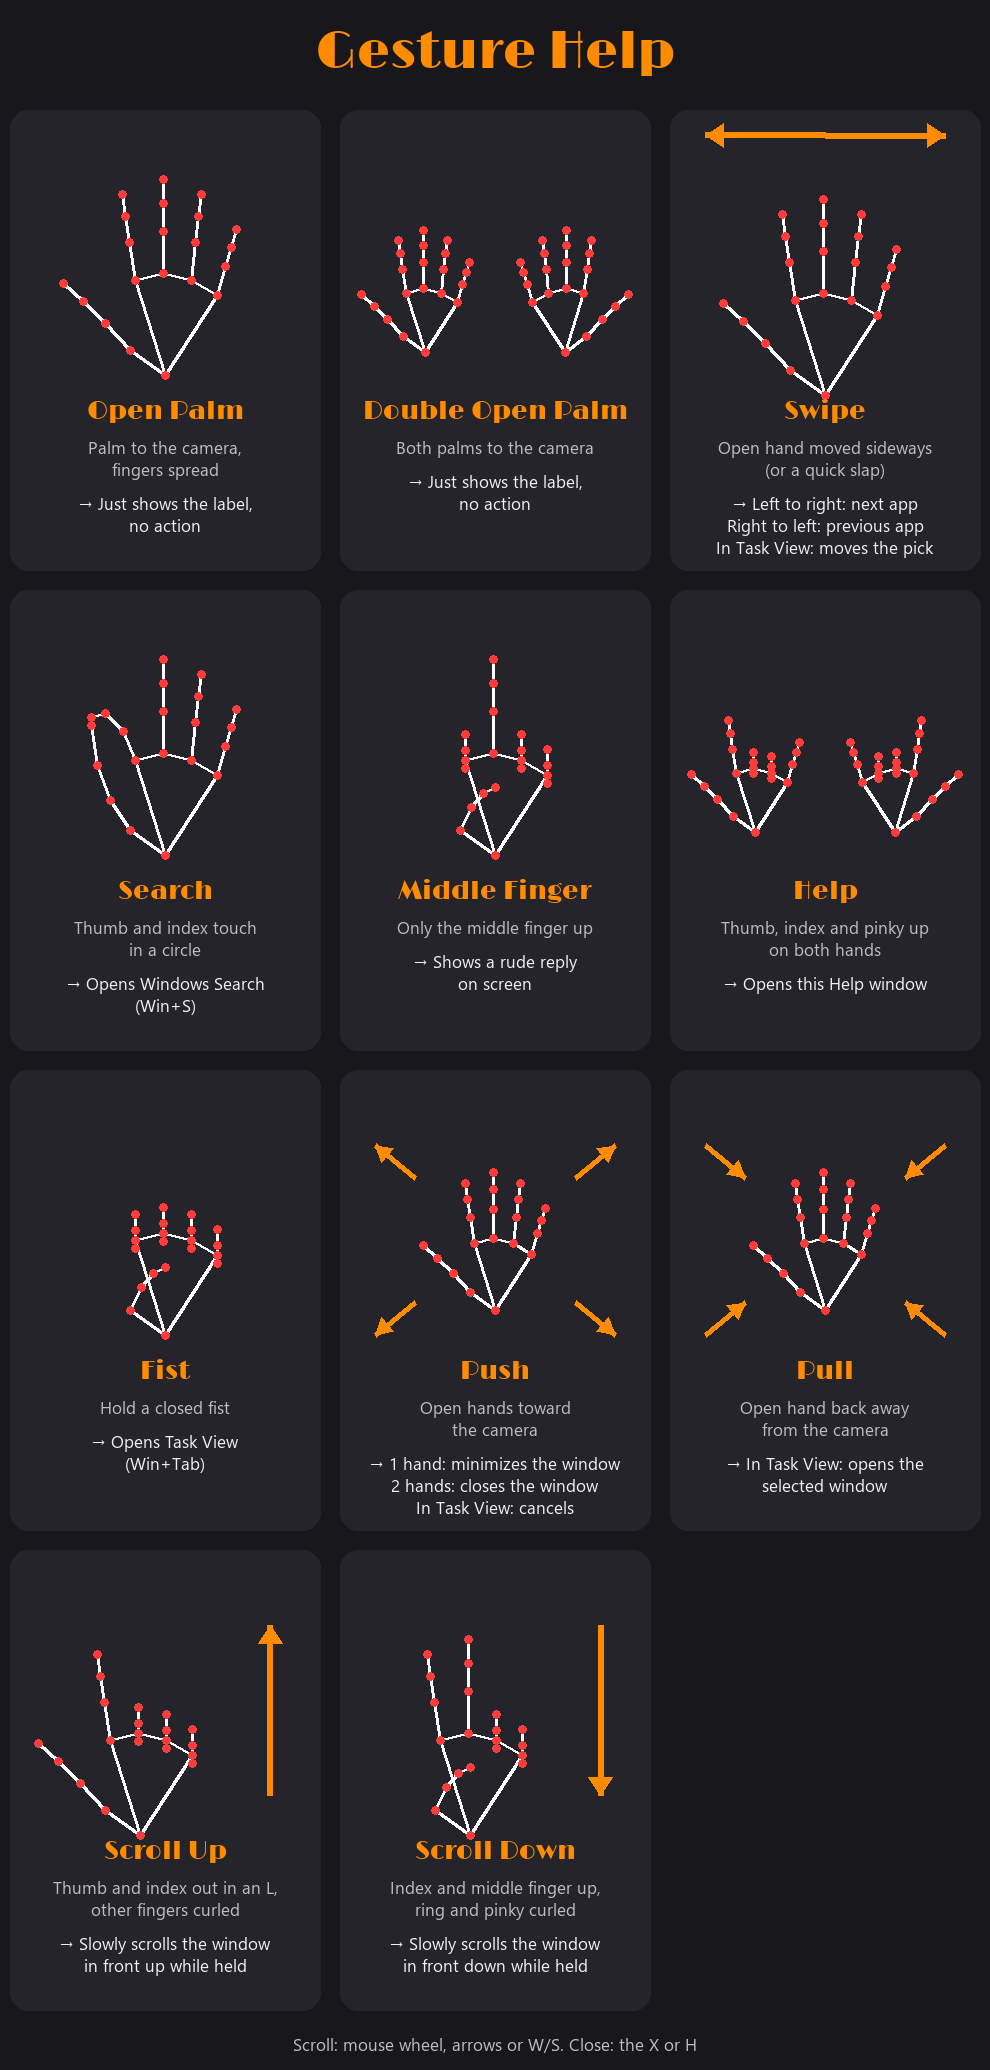
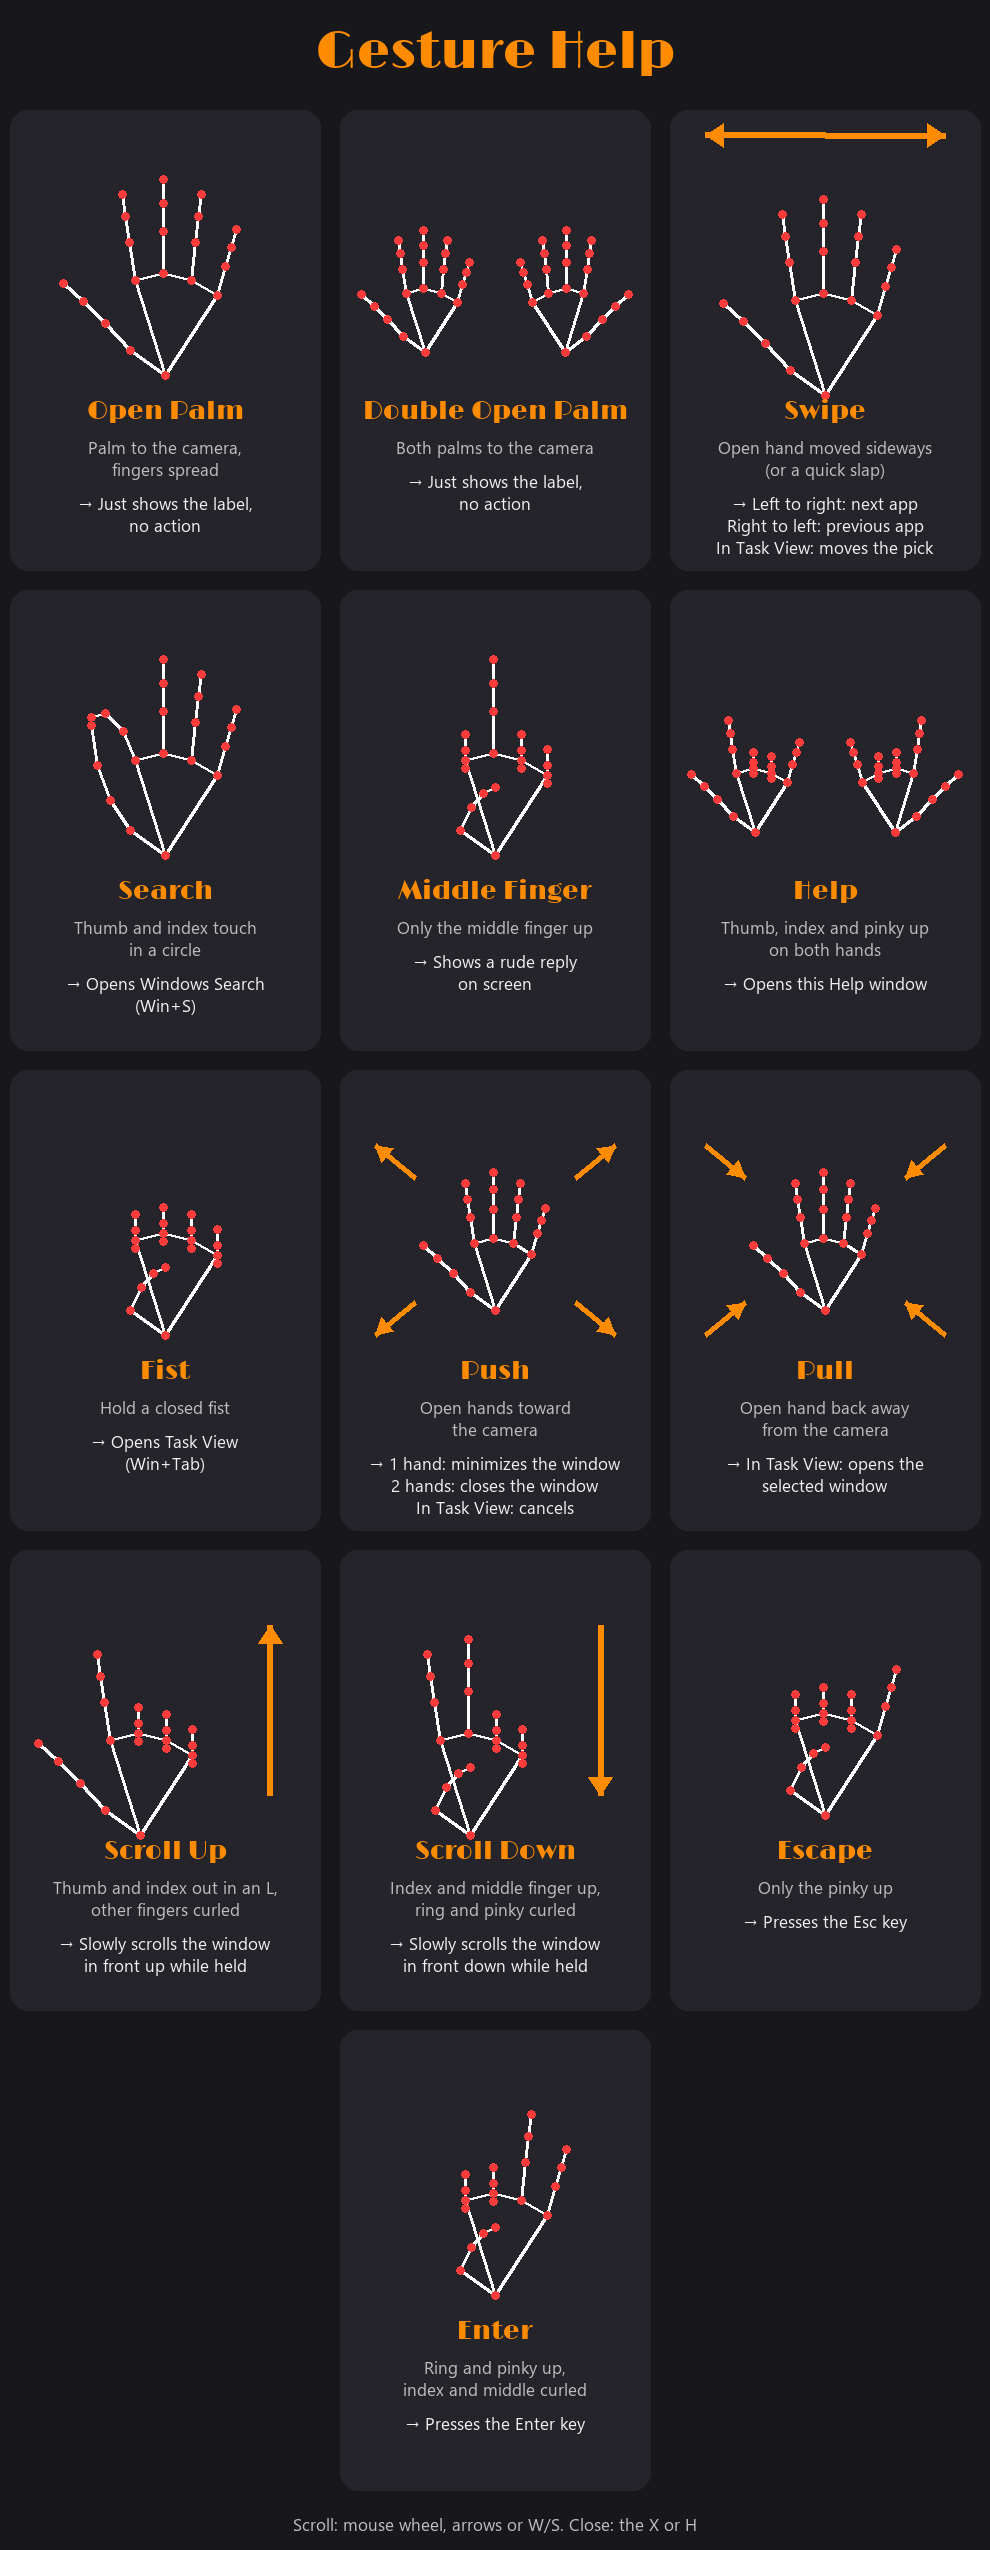
Add Escape and Enter gestures with Help and README entries

diff --git a/src/camera.py b/src/camera.py
@@ -43,6 +43,8 @@ STABLE_S = 0.3  # hands must be tracked steadily this long before swipes or push
 SCROLL_RATE = 240  # wheel units per second while a scroll sign is held (120 = one notch)
 SCROLL_HOLD_S = 0.3  # the sign must be held this long before it starts scrolling
 SCROLL_SHOW_S = 0.3
+ESCAPE_HOLD_S = 0.3  # how long the pinky sign must be held to press Esc
+ENTER_HOLD_S = 0.3  # how long the ring + pinky sign must be held to press Enter
 PUSH_SHOW_S = 1.0
 FIST_HOLD_S = 0.5  # how long the fist must be held to trigger
 SEARCH_HOLD_S = 0.3  # how long the Search sign must be held to trigger
@@ -184,6 +186,31 @@ def is_l_sign(lm):
         and dist(lm[16], lm[WRIST]) < dist(lm[13], lm[WRIST])
         and dist(lm[20], lm[WRIST]) < dist(lm[17], lm[WRIST])
     )
+
+
+def is_pinky_only(lm):
+    # Only the pinky up; index, middle and ring curled; the thumb is ignored.
+    return (
+        dist(lm[20], lm[WRIST]) > dist(lm[18], lm[WRIST])
+        and dist(lm[8], lm[WRIST]) < dist(lm[5], lm[WRIST])
+        and dist(lm[12], lm[WRIST]) < dist(lm[9], lm[WRIST])
+        and dist(lm[16], lm[WRIST]) < dist(lm[13], lm[WRIST])
+    )
+
+
+def is_ring_pinky(lm):
+    # Ring and pinky up; index and middle curled; the thumb is ignored.
+    return (
+        dist(lm[16], lm[WRIST]) > dist(lm[14], lm[WRIST])
+        and dist(lm[20], lm[WRIST]) > dist(lm[18], lm[WRIST])
+        and dist(lm[8], lm[WRIST]) < dist(lm[5], lm[WRIST])
+        and dist(lm[12], lm[WRIST]) < dist(lm[9], lm[WRIST])
+    )
+
+
+def camera_window_in_front():
+    hwnd = ctypes.windll.user32.FindWindowW(None, "Camera")
+    return bool(hwnd) and hwnd == ctypes.windll.user32.GetForegroundWindow()
 
 
 def is_fist(lm):
@@ -384,6 +411,12 @@ def main():
     swipe_until = 0.0
     push_history = deque()
     prev_n_hands = 0
+    escape_armed = True
+    escape_since = None
+    escape_until = 0.0
+    enter_armed = True
+    enter_since = None
+    enter_until = 0.0
     scroll_active = None
     scroll_since = 0.0
     last_scroll_t = 0.0
@@ -469,6 +502,31 @@ def main():
         else:
             scroll_active = None
             scroll_accum = 0.0
+
+        # Only the pinky up (held briefly) presses Esc, once per sign. It is skipped
+        # while the Camera window is in front, because Esc would quit this app.
+        if n_hands == 1 and stable and is_pinky_only(result.hand_landmarks[0]):
+            escape_since = escape_since or now
+            if escape_armed and now - escape_since >= ESCAPE_HOLD_S:
+                if not camera_window_in_front():
+                    press_key(0x1B)  # VK_ESCAPE
+                escape_armed = False
+                escape_until = now + PUSH_SHOW_S
+        else:
+            escape_since = None
+            escape_armed = True
+
+        # Ring and pinky up (held briefly) presses Enter, once per sign.
+        if n_hands == 1 and stable and is_ring_pinky(result.hand_landmarks[0]):
+            enter_since = enter_since or now
+            if enter_armed and now - enter_since >= ENTER_HOLD_S:
+                press_key(0x0D)  # VK_RETURN
+                enter_armed = False
+                enter_until = now + PUSH_SHOW_S
+        else:
+            enter_since = None
+            enter_armed = True
+
         # Swipes use a single, steadily tracked hand.
         if n_hands == 1 and stable and scroll_dir is None:
             lm = result.hand_landmarks[0]
@@ -552,6 +610,10 @@ def main():
         gesture = ""
         if middle_finger:
             gesture = "Fuck you too"
+        elif now < enter_until:
+            gesture = "Enter"
+        elif now < escape_until:
+            gesture = "Escape"
         elif now < scroll_until:
             gesture = scroll_text
         elif now < fist_until:

diff --git a/src/help_screen.py b/src/help_screen.py
@@ -74,6 +74,8 @@ HELP_HAND = hand("out", "up", "curl", "curl", "up")
 FIST_HAND = hand("in", "curl", "curl", "curl", "curl")
 TWO_FINGER_HAND = hand("in", "up", "up", "curl", "curl")
 L_HAND = hand("out", "up", "curl", "curl", "curl")
+PINKY_HAND = hand("in", "curl", "curl", "curl", "up")
+RING_HAND = hand("in", "curl", "curl", "up", "up")
 
 
 def draw_skeleton(draw, pts, cx, cy, scale=1.0, mirror=False):
@@ -146,7 +148,7 @@ def tile(draw, col, row, title, how, does, art, fonts):
 def build_help_image():
     fonts = {"title": load(TITLE_FONT, 52), "name": load(TITLE_FONT, 26),
              "sub": load(TEXT_FONT, 17)}
-    rows = 4
+    rows = 5
     img = Image.new("RGB", (TILE_W * COLS, TITLE_H + TILE_H * rows + FOOTER_H), BG)
     draw = ImageDraw.Draw(img)
     centered(draw, "Gesture Help", fonts["title"], img.width / 2, 20, ORANGE)
@@ -204,6 +206,12 @@ def build_help_image():
          "Slowly scrolls the window\nin front up while held", scroll(L_HAND, True), fonts)
     tile(draw, 1, 3, "Scroll Down", "Index and middle finger up,\nring and pinky curled",
          "Slowly scrolls the window\nin front down while held", scroll(TWO_FINGER_HAND, False), fonts)
+
+    tile(draw, 2, 3, "Escape", "Only the pinky up",
+         "Presses the Esc key", single(PINKY_HAND), fonts)
+
+    tile(draw, 1, 4, "Enter", "Ring and pinky up,\nindex and middle curled",
+         "Presses the Enter key", single(RING_HAND), fonts)
 
     centered(draw, "Scroll: mouse wheel, arrows or W/S. Close: the X or H",
              fonts["sub"], img.width / 2, img.height - 38, GREY)

diff --git a/tools/make_readme_images.py b/tools/make_readme_images.py
@@ -15,7 +15,7 @@ TILES = [  # (col, row, file name) in the order build_help_image lays them out
     (0, 0, "open-palm"), (1, 0, "double-open-palm"), (2, 0, "swipe"),
     (0, 1, "search"), (1, 1, "middle-finger"), (2, 1, "help"),
     (0, 2, "fist"), (1, 2, "push"), (2, 2, "pull"),
-    (0, 3, "scroll-up"), (1, 3, "scroll-down"),
+    (0, 3, "scroll-up"), (1, 3, "scroll-down"), (2, 3, "escape"), (1, 4, "enter"),
 ]
 
 

diff --git a/README.md b/README.md
@@ -40,6 +40,8 @@ The camera window is mirrored and shows your hand skeleton. The name of the gest
 | Pull | Open hand back away from the camera | In Task View: opens the selected window (Enter) |
 | Scroll Up | Thumb and index out in an "L", other fingers curled | Slowly scrolls the window in front up while you hold it |
 | Scroll Down | Index and middle finger up, ring and pinky curled | Slowly scrolls the window in front down while you hold it |
+| Escape | Only the pinky up, other fingers curled | Presses the Esc key (skipped while the Camera window is in front, since Esc would quit the app) |
+| Enter | Ring and pinky up, index and middle curled | Presses the Enter key |
 
 Two-hand push asks the program to close, so programs with unsaved work will still ask you to save.
 
@@ -64,6 +66,11 @@ Two-hand push asks the program to close, so programs with unsaved work will stil
   <tr>
     <td align="center"><img src="docs/gestures/scroll-up.png" width="220"></td>
     <td align="center"><img src="docs/gestures/scroll-down.png" width="220"></td>
+    <td align="center"><img src="docs/gestures/escape.png" width="220"></td>
+  </tr>
+  <tr>
+    <td></td>
+    <td align="center"><img src="docs/gestures/enter.png" width="220"></td>
     <td></td>
   </tr>
 </table>
